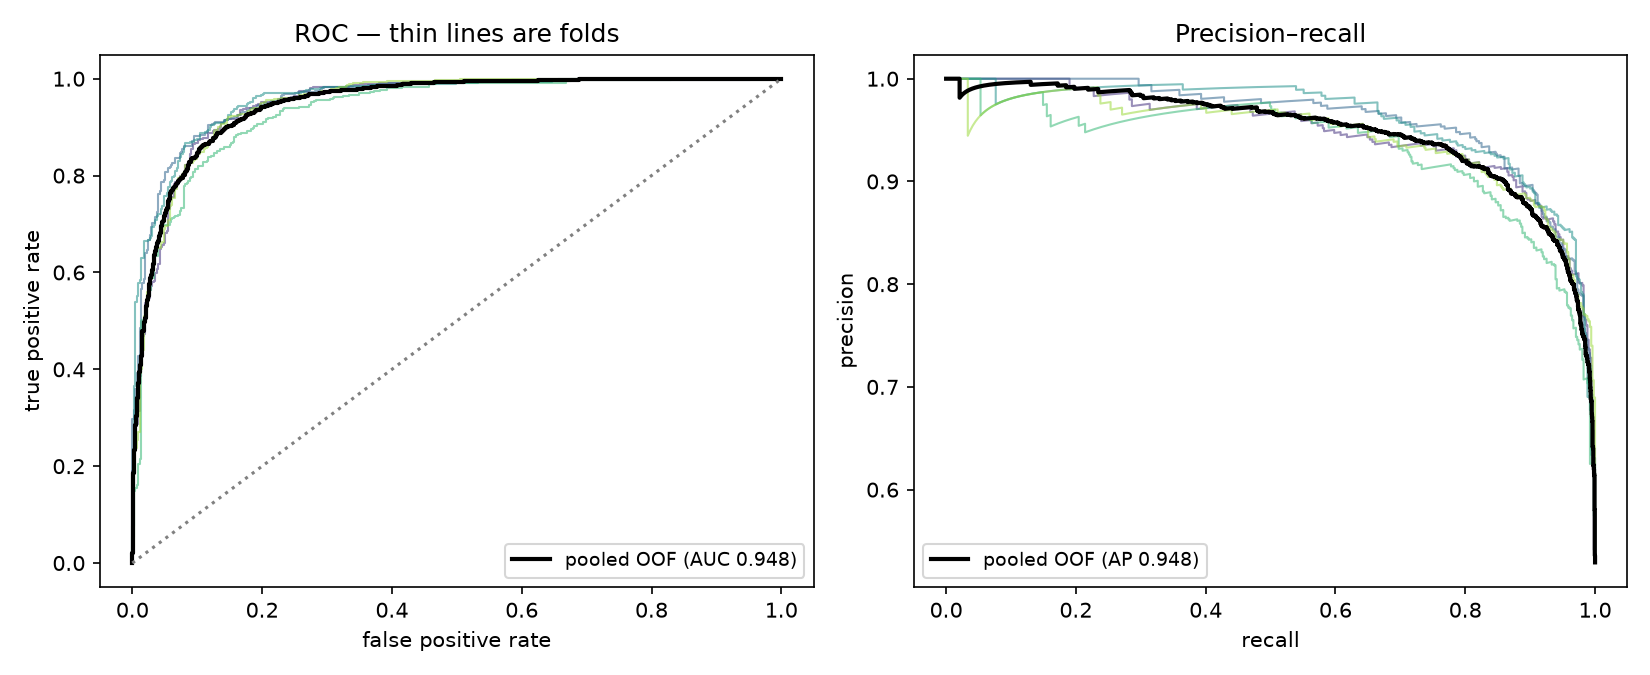
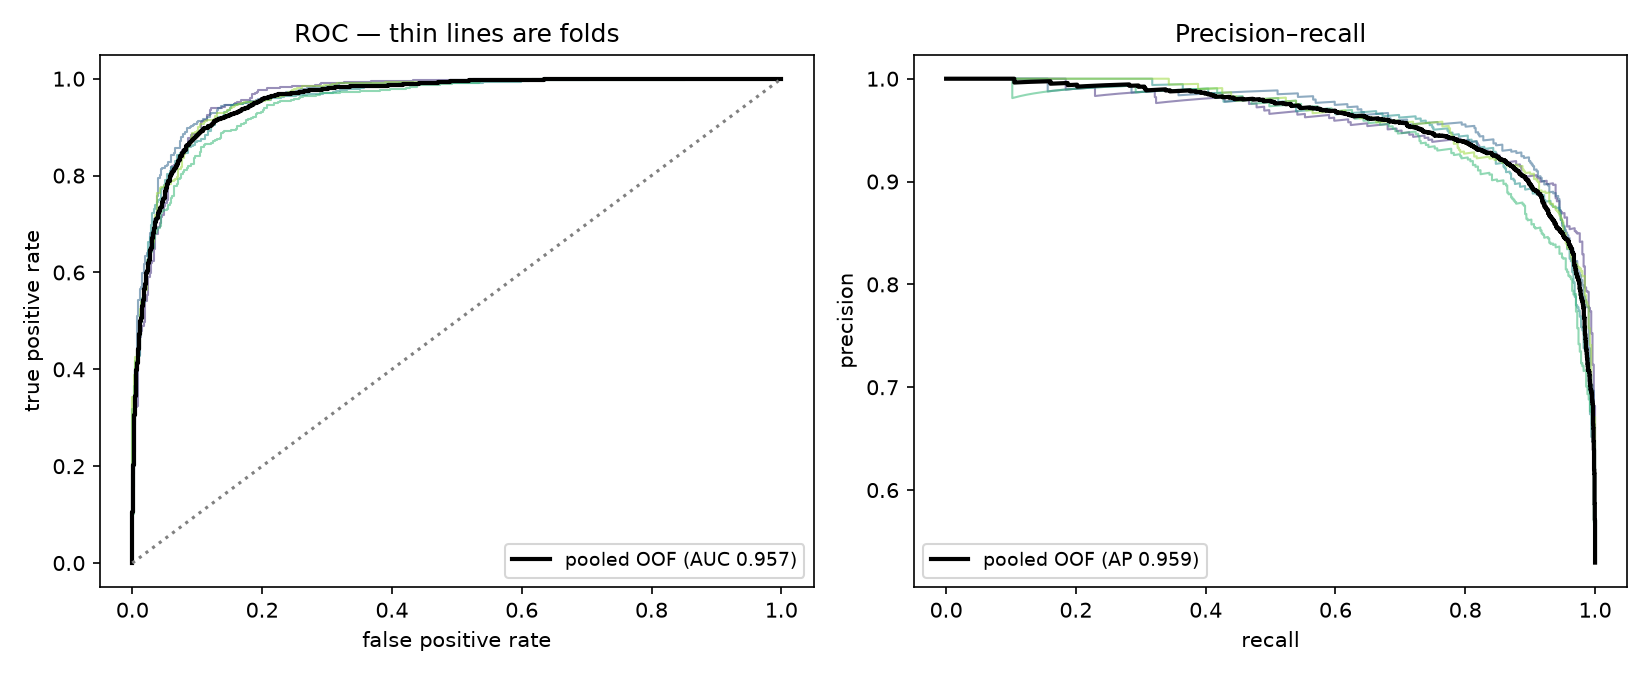
docs(figures): regenerate from the served run, and stop claiming a fifth fold
The figures in docs/figures were rendered on 2026-07-16 to 07-25 from
cebb0fe6, the model ca906040 replaced on 2026-07-19. The README embeds them
beside the served model's numbers, so three of them described a different run.

Regenerated from ca906040: roc_pr, calibration and training_curves. All three
come from the promoted run's own predictions.parquet and its MLflow children.

One defect found and fixed while regenerating. fold 0 logged its 31 summary
metrics and no per-epoch history, so plotting all five unconditionally put a
fifth entry on a legend over four curves — a chart claiming a fold it does not
draw. A fold with no series now gets no line and no legend entry, and the
title names which fold is missing rather than leaving the reader to count. The
run warns as well, so this cannot pass silently next time.

I had this backwards an hour ago and said the served run has no per-epoch
history at all. It has four folds of it: the parent MLflow run holds 16
summary metrics and the per-epoch series live in five child runs tagged with
mlflow.parentRunId, which is where fig_training_curves reads them.

embedding_3d is NOT regenerated and stays stale. It rebuilds fold-0
activations from data/processed/tfrecords, and those shards carry a 13-dim
auxiliary vector while ca906040 takes 9, so the input pipeline raises before
the model loads. Rebuilding shards at the served layout is out of scope here;
it is stated in the report's reproducibility section instead of being
[…]

diff --git a/pipeline/scripts/make_performance_figures.py b/pipeline/scripts/make_performance_figures.py
@@ -46,6 +46,11 @@ def fig_training_curves(db_path: Path, run_id: str, out: Path) -> None:
             (run_id,),
         ).fetchall()
     )
+    # A fold with no epoch series gets no line and no legend entry. ca906040's
+    # fold 0 is exactly that case: it logged its 31 summary metrics and no
+    # per-epoch history, so plotting it unconditionally put a fifth label on a
+    # legend over four curves — a chart claiming a fold it does not show.
+    drawn: set[int] = set()
     fig, axes = plt.subplots(1, 2, figsize=(11, 4))
     for name, ax, ylabel in (
         (("loss", "val_loss"), axes[0], "loss"),
@@ -56,12 +61,19 @@ def fig_training_curves(db_path: Path, run_id: str, out: Path) -> None:
             if uuid is None:
                 continue
             train, val = _epoch_series(con, uuid, name[0]), _epoch_series(con, uuid, name[1])
+            if not len(val):
+                continue
+            drawn.add(i)
             ax.plot(train, color=FOLD_COLORS[i], alpha=0.25)
             ax.plot(val, color=FOLD_COLORS[i], label=f"fold {i}")
         ax.set_xlabel("epoch")
         ax.set_ylabel(ylabel)
-    axes[0].set_title("Loss by epoch (faint = train, solid = validation)")
-    axes[1].set_title("ROC-AUC by epoch")
+    missing = sorted(set(range(5)) - drawn)
+    note = f" · no epoch history logged for fold {', '.join(map(str, missing))}" if missing else ""
+    axes[0].set_title(f"Loss by epoch (faint = train, solid = validation){note}", fontsize=10)
+    axes[1].set_title("ROC-AUC by epoch", fontsize=10)
+    if missing:
+        log.warning("no epoch history for folds %s — drawn from %d of 5", missing, len(drawn))
     axes[1].legend(fontsize=8, loc="lower right")
     fig.tight_layout()
     fig.savefig(out, dpi=150)
